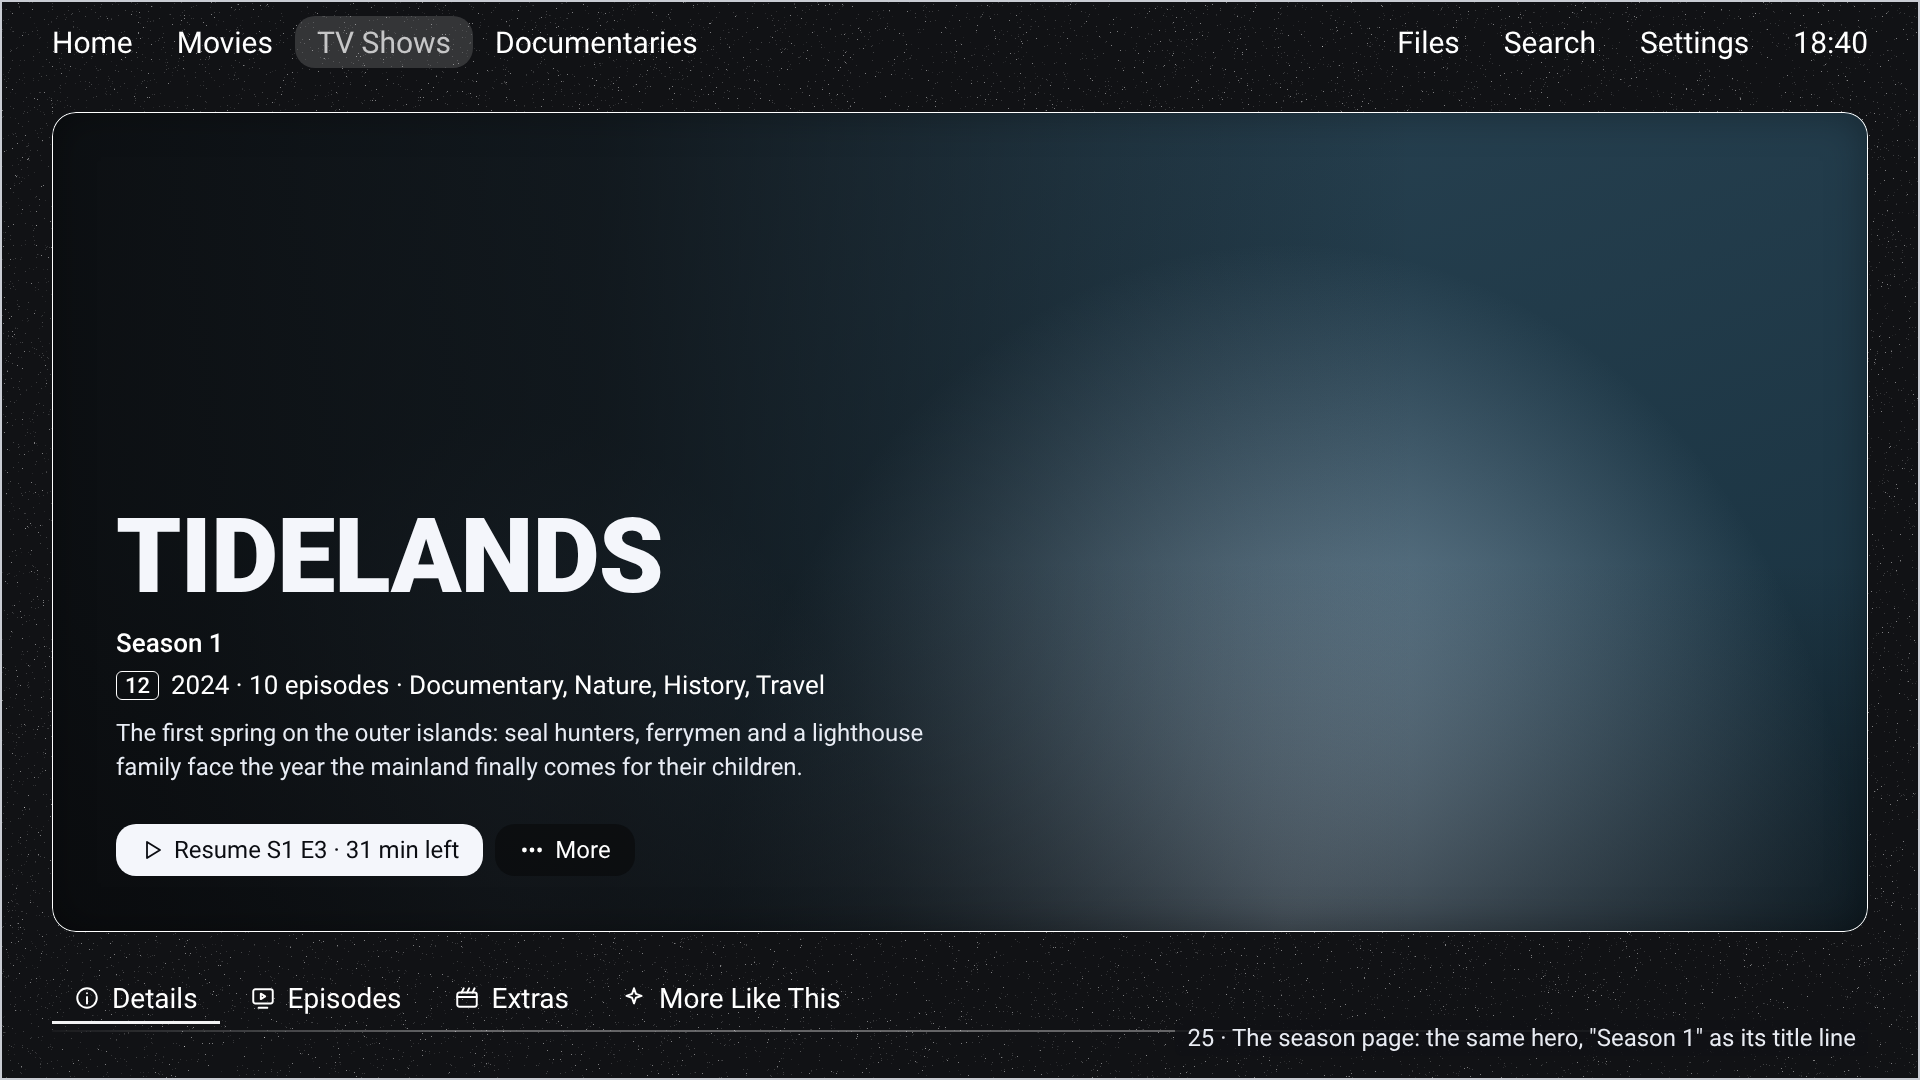
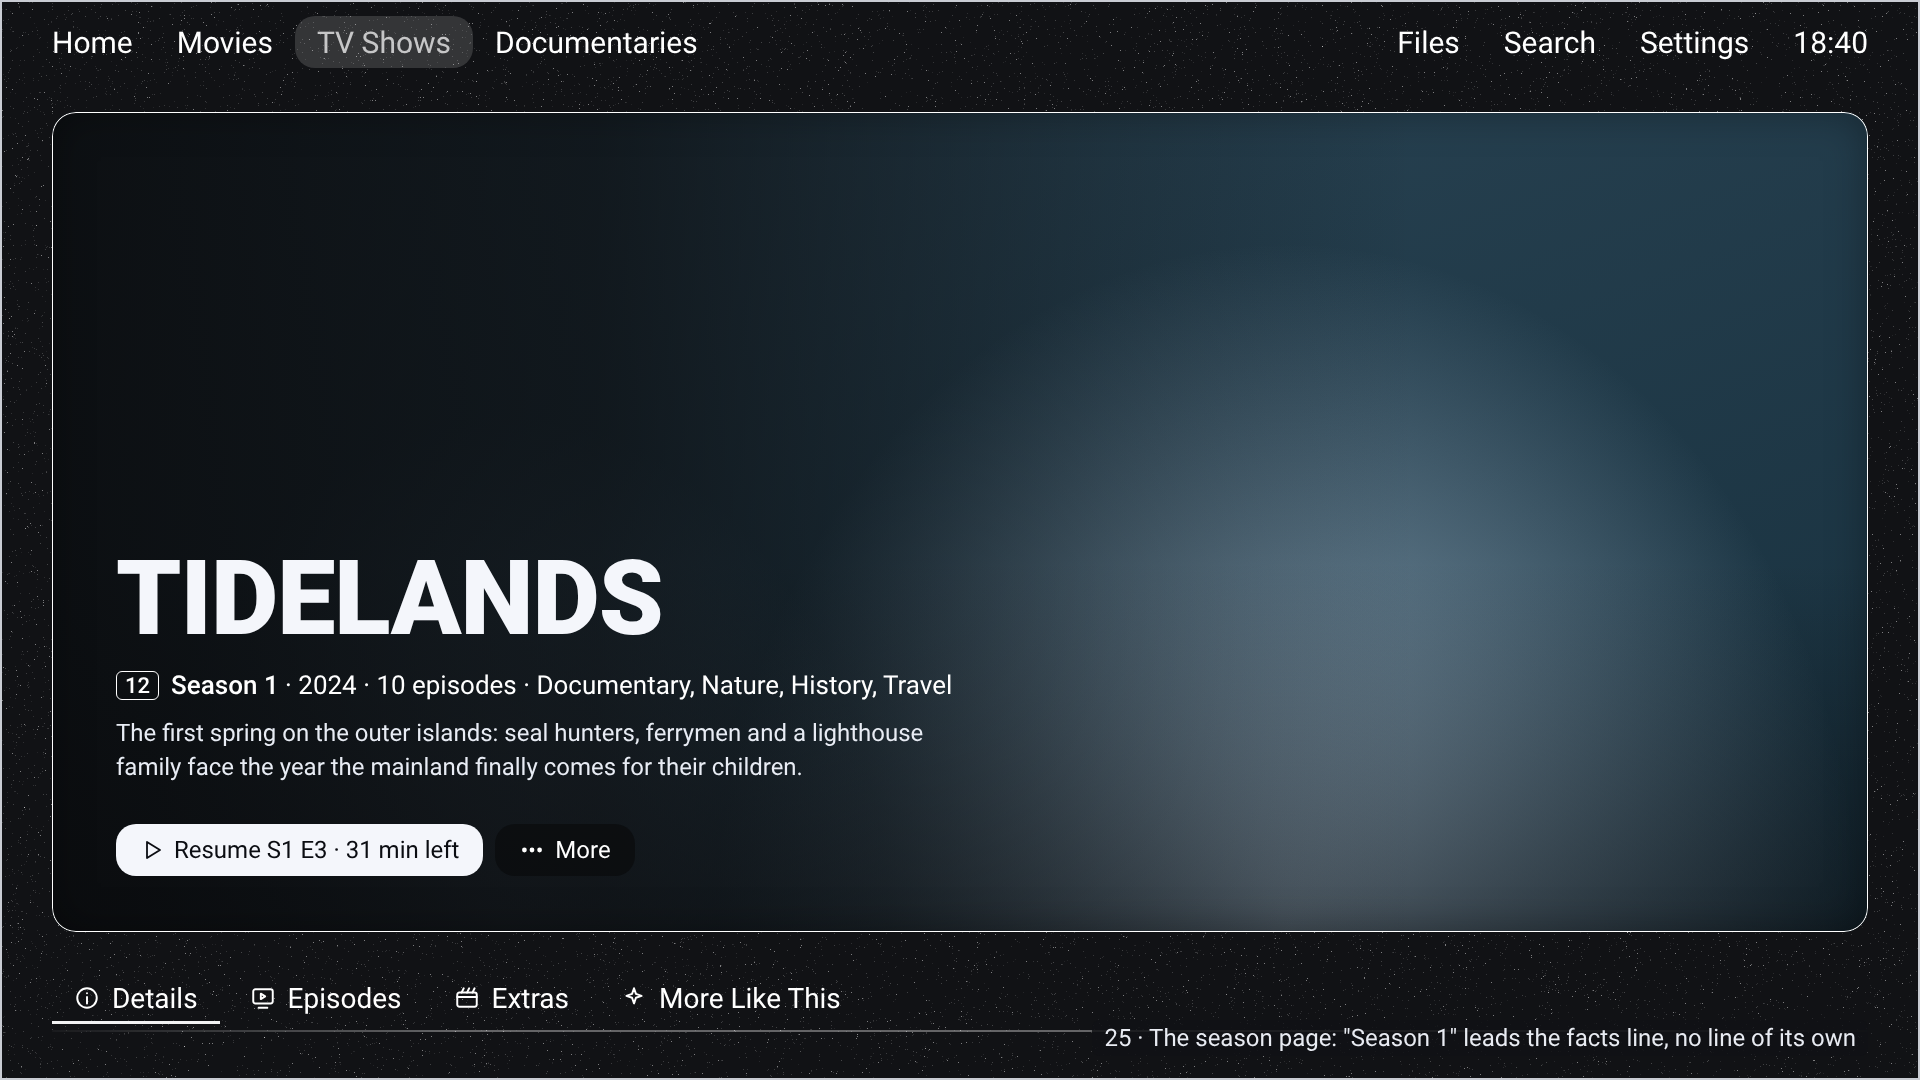
Details: season card A chosen, season in the facts line, earlier-episodes stepper approved
Claude-Session: https://claude.ai/code/session_01FtDZqbpF6RqZ5ckDtvyYL6

Changed region(s): [[0.0625, 0.4583, 0.5, 0.6417], [0.5625, 0.9472, 0.9688, 0.9778]]

diff --git a/docs/design/proposals/details-v3/render-5.js b/docs/design/proposals/details-v3/render-5.js
@@ -52,14 +52,14 @@ function frame24() {
 }
 
 function frame25() {
-  const SEASON = { logo: 'Tidelands', age: '12', titleLine: 'Season 1',
-    facts: '2024 · 10 episodes · Documentary, Nature, History, Travel',
+  const SEASON = { logo: 'Tidelands', age: '12',
+    facts: '<span><b style="font-weight:500">Season 1</b> · 2024 · 10 episodes · Documentary, Nature, History, Travel</span>',
     desc: 'The first spring on the outer islands: seal hunters, ferrymen and a lighthouse family face the year the '
       + 'mainland finally comes for their children.' };
   const btns = `<span class="btn f">${svg(D.play, 24)}Resume S1 E3 · 31 min left</span><span class="btn">
     ${svg(I.more, 26)}More</span>`;
   return bar('TV Shows') + hero(SEASON, btns) + tabs(972, 'Details')
-    + '<div class="cap2">25 · The season page: the same hero, "Season 1" as its title line</div>';
+    + '<div class="cap2">25 · The season page: "Season 1" leads the facts line, no line of its own</div>';
 }
 
 (async () => {

diff --git a/docs/0.158/BRIEF_0158_B.md b/docs/0.158/BRIEF_0158_B.md
@@ -469,10 +469,14 @@ next frame Home has no box and Movies the white one; Home → Settings (no OK): 
 
 ### Details review, round 6 (owner, 21 Nov; `details-v3/tv/26`–`28`)
 - Approved: the top-bar blur pictures (`tv/16`–`18`, `22`).
-- **Episode delete, earlier episodes (proposed `tv/28`):** the switch becomes a stepper (RULES §8), **Also delete:
+- **Season page hero (owner, 21 Nov; `tv/25` redrawn):** no separate "Season 1" line; the facts line starts with it
+  in medium weight: "[12] **Season 1** · 2024 · 10 episodes · genres". Episodes keep their title line ("Season 1 ·
+  Episode 3 · The Long Tide").
+- **Season card (owner, 21 Nov): option A, `tv/26`.** Option B dropped.
+- **Episode delete, earlier episodes (approved `tv/28`):** the switch becomes a stepper (RULES §8), **Also delete:
   None · Watched only (n) · All earlier (n)**; the value names the range ("E1 – E10 except E7"); starts on Watched
   only when any earlier one is watched, else None; the total and the button follow.
-- **Reaching a season page, two options (owner to pick):** A `tv/26` a season card first in each row with the
+- (Settled: A.) **Reaching a season page, two options:** A `tv/26` a season card first in each row with the
   season's own 2:3 poster whole on the left and "Season 1 · 10 episodes · 2 watched · Open season ›"; B `tv/27` a
   **‹ Season 1 ›** picker under the tabs (one season's episodes at a time, in rows below) with a **Season page**
   button beside it. Replaces `tv/24` (its "S1" was a placeholder, not centred).

diff --git a/docs/DISCUSSION_HANDOVER.md b/docs/DISCUSSION_HANDOVER.md
@@ -8,7 +8,8 @@
   Round 2 (`tv/02`–`15`, in the brief): hero foot instead of a title, Subtitles and Find online, Artwork scrolling,
   Delete wording, TMDB QR code, "On Netflix", the four kinds (`13`–`15`). Round 3 `tv/16`–`21` (top bar blur, long-press menus,
   Extras YouTube and player, Delete reworded); bugs from photos in the brief. Round 4 `tv/16`–`22` (blur fixed, margin 52 px
-  with hero 1816, episode delete with earlier episodes, YouTube mark centred). Round 5: season card `tv/24`, season page `tv/25`, waiting.
+  with hero 1816, episode delete with earlier episodes, YouTube mark centred). Season card A (`tv/26`), season page with Season 1 in the facts line (`tv/25`), earlier-episodes stepper (`tv/28`):
+  approved.
   After that: the Details page sheet (DETAILS.md) rewritten from rounds 1–5, then the next page. **Before coding: ask for diagnostics AND whether to check NOVA updates (CLAUDE.md).**
 
 ## 21 Nov — Home review
